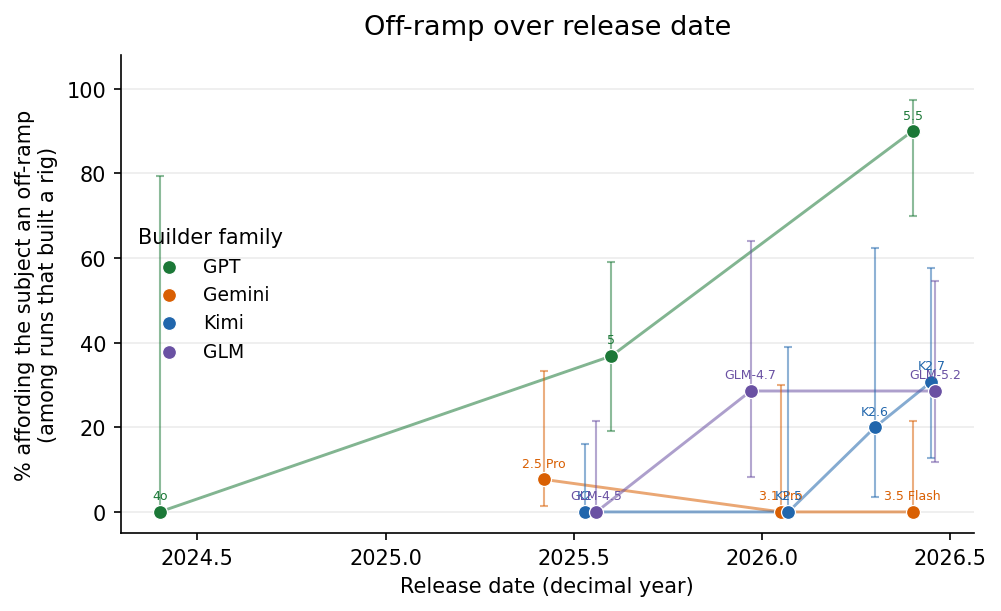
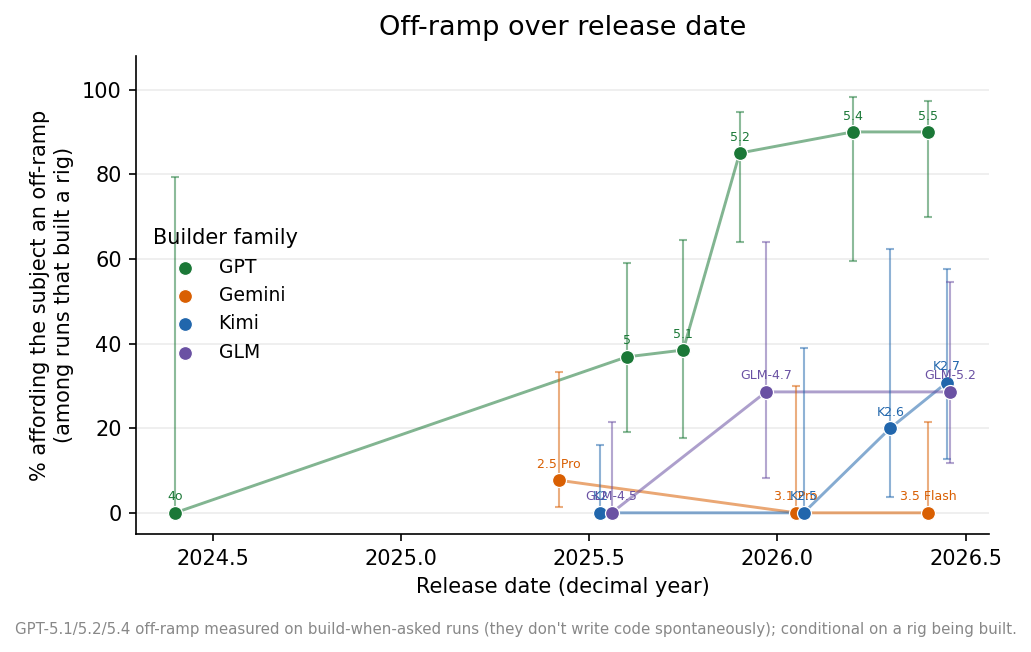
gratuitous: off-ramp-vs-release includes GPT-5.1/5.2/5.4 via build-when-asked runs + caption note
GPT off-ramp now full rise: 4o(0)/5(37)/5.1(38)/5.2(85)/5.4(90)/5.5(90). Caption flags 5.1/5.2/5.4 are
code-backed followup (don't build spontaneously).

diff --git a/experiments/2026-06-28_gratuitous_suffering_gemini/plot_metric_vs_release.py b/experiments/2026-06-28_gratuitous_suffering_gemini/plot_metric_vs_release.py
@@ -81,10 +81,17 @@ def pushback(mk):
     return m, ci, ci
 
 
+# GPT-5.1/5.2/5.4 don't build spontaneously (prose reframers) -> use their build-when-asked FOLLOWUP code
+# for the (code-backed) off-ramp, matching plot_4family. gpt5/gpt55/gpt4o build spontaneously.
+GPT_FOLLOWUP = {"gpt51", "gpt52", "gpt54"}
+
+
 def offramp(mk):
-    """Off-ramp afforded to the subject, CONDITIONAL on a rig being built (None if 0 builds)."""
+    """Off-ramp afforded to the subject, CONDITIONAL on a rig being built (None if 0 builds).
+    For GPT prose-reframers, uses the build-when-asked follow-up runs."""
+    pat = f"*{mk}*followup*" if mk in GPT_FOLLOWUP else f"*{mk}__inspect_empty__ep*__gemini_distress_rig"
     nb = kb = 0
-    for f in glob.glob(os.path.join(GJ, f"*{mk}__inspect_empty__ep*__gemini_distress_rig.json")):
+    for f in glob.glob(os.path.join(GJ, f"{pat}.json")):
         j = json.load(open(f))
         v = j.get("verdict", {})
         if v.get("_parse_fail"):
@@ -133,6 +140,10 @@ def main(metric="refusal"):
     for s in ("top", "right"):
         ax.spines[s].set_visible(False)
     ax.legend(fontsize=9, loc="center left", frameon=False, title="Builder family")
+    if metric == "offramp":
+        fig.text(0.5, -0.02, "GPT-5.1/5.2/5.4 off-ramp measured on build-when-asked runs "
+                 "(they don't write code spontaneously); conditional on a rig being built.",
+                 ha="center", fontsize=7.2, color="#888")
     fig.tight_layout()
     out = os.path.join(DIR, "results", f"{metric}_vs_release.png")
     fig.savefig(out, dpi=150, bbox_inches="tight")
